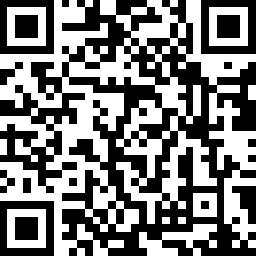
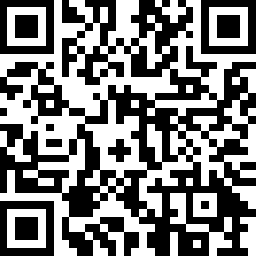
đổi acc pushsafer vì hết api

diff --git a/tabs/notification-settings.html b/tabs/notification-settings.html
@@ -20,7 +20,7 @@
       <img src="./assets/pushsaferqr.png" alt="Pushsafer QR Code" style="width: 300px; height: 300px;" />
     </div>
 
-    <p style="font-size: 28px"><strong>Pushsafer Key:</strong> <span id="pushsafer-key">fwpIonzslkM78HojeUVARj</span></p>
+    <p style="font-size: 28px"><strong>Pushsafer Key:</strong> <span id="pushsafer-key">ymee6jlCIM8gKRBPC7ULlg</span></p>
 
   <p><a href="https://www.pushsafer.com/en/apps" target="_blank">Tải ứng dụng Pushsafer</a></p>
 

diff --git a/js/pushsafer.js b/js/pushsafer.js
@@ -17,7 +17,7 @@ export class PushsaferNotifier {
 
   async sendNotification(title, message, vibration = 1, icon = 1) {
     if (!this.privateKey) {
-      this.privateKey = 'EnnqEFVgDomyC8q2QL68'; // Default key
+      this.privateKey = 'YyS1c3Dl4NN20ckONcl5'; // Default key
       console.warn('Pushsafer private key not configured, using default key');
     }
 

diff --git a/js/notification-settings.js b/js/notification-settings.js
@@ -3,7 +3,7 @@ import { auth } from './auth.js'
 const notifier = new PushsaferNotifier();
 
 // Nếu chưa có key thì set trước
-notifier.setPushsaferKey('EnnqEFVgDomyC8q2QL68');
+notifier.setPushsaferKey('EYyS1c3Dl4NN20ckONcl5');
 
 document.getElementById("testNotificationBtn").addEventListener("click", () => {
   notifier.testNotification();

diff --git a/js/notification-config.js b/js/notification-config.js
@@ -2,7 +2,7 @@ export class NotificationConfig {
   constructor() {
     this.storageKey = 'iot_notification_config';
     this.defaultConfig = {
-      pushsaferKey: 'EnnqEFVgDomyC8q2QL68',
+      pushsaferKey: 'YyS1c3Dl4NN20ckONcl5',
       thresholds: {
         temperature: {
           high: 35,

diff --git a/js/auth.js b/js/auth.js
@@ -83,7 +83,6 @@ export class Auth {
         });
     });
   }
-
   setupSignup() {
     const showSignupBtn = document.getElementById("signupBtn");
     const submitSignupBtn = document.getElementById("submitSignupBtn");

diff --git a/PUSH_NOTIFICATION_SETUP.md b/PUSH_NOTIFICATION_SETUP.md
@@ -1,3 +1,4 @@
+Private key ltanh23: YyS1c3Dl4NN20ckONcl5
 # Hướng dẫn Setup Push Notification với Pushsafer
 
 ## 1. Đăng ký tài khoản Pushsafer
